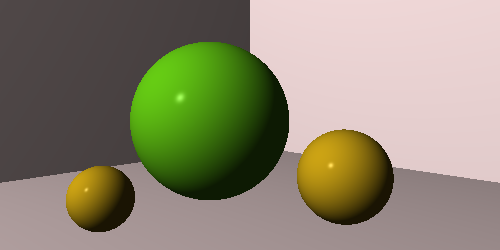
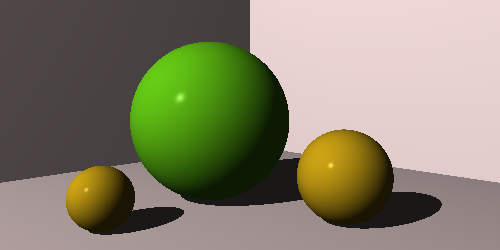
add code for shadows

Changed region(s): [[0.36, 0.616, 0.6, 0.84], [0.66, 0.756, 0.9, 0.924], [0.18, 0.812, 0.39, 0.952]]

diff --git a/tests/testReflection.cpp b/tests/testReflection.cpp
@@ -33,18 +33,30 @@ TEST_CASE("reflections should work")
         auto normal_v = vector(0.0, 0.0, -1.0);
         point_light light {point(0.0, 0.0, -10.0), color {1.0f, 1.0f, 1.0f}};
 
-        REQUIRE(lighting(m, light, pos, eye_v, normal_v) == color {1.9, 1.9, 1.9});
+        REQUIRE(lighting(m, light, pos, eye_v, normal_v, false) == color {1.9, 1.9, 1.9});
         auto eye_v_1 = vector(0.0, std::sqrt(2) / 2, std::sqrt(2) / 2);
-        REQUIRE(lighting(m, light, pos, eye_v_1, normal_v) == color {1.0, 1.0, 1.0});
+        REQUIRE(lighting(m, light, pos, eye_v_1, normal_v, false) == color {1.0, 1.0, 1.0});
         
         point_light light_1 {point(0.0, 10.0, -10.0), color {1.0f, 1.0f, 1.0f}};
-        REQUIRE(lighting(m, light_1, pos, eye_v_1, normal_v) == color {0.7364, 0.7364, 0.7364});
+        REQUIRE(lighting(m, light_1, pos, eye_v_1, normal_v, false) == color {0.7364, 0.7364, 0.7364});
         
         auto eye_v_2 = vector(0.0, -std::sqrt(2) / 2, -std::sqrt(2) / 2);
-        REQUIRE(lighting(m, light_1, pos, eye_v_2, normal_v) == color {1.6364, 1.6364, 1.6364});
+        REQUIRE(lighting(m, light_1, pos, eye_v_2, normal_v, false) == color {1.6364, 1.6364, 1.6364});
         
         point_light light_2 {point(0.0, 0.0, 10.0), color {1.0f, 1.0f, 1.0f}};
-        REQUIRE(lighting(m, light_2, pos, eye_v, normal_v) == color {0.1, 0.1, 0.1});
+        REQUIRE(lighting(m, light_2, pos, eye_v, normal_v, false) == color {0.1, 0.1, 0.1});
+
+        // lighting in shadow should work
+        REQUIRE(lighting(m, light_1, pos, eye_v, normal_v, true) == color {0.1, 0.1, 0.1});
+    }
+
+    SECTION("is_shadowed should work")
+    {
+        world w;
+        REQUIRE_FALSE(is_shadowed(w, point(0.0, 10.0, 0.0)));
+        REQUIRE(is_shadowed(w, point(10.0, -10.0, 10.0)));
+        REQUIRE_FALSE(is_shadowed(w, point(-20.0, 20.0, -20.0)));
+        REQUIRE_FALSE(is_shadowed(w, point(-2.0, 2.0, -2.0)));
     }
 
     SECTION("shading should work")
@@ -54,7 +66,7 @@ TEST_CASE("reflections should work")
         auto obj = *w.objs().begin();
         intersection i {obj, 4.0};
         computations c {i, r};
-        // REQUIRE(shade_hit(w, c) == color {0.38066, 0.47583, 0.2855});
+        REQUIRE(shade_hit(w, c) == color {0.38066, 0.47583, 0.2855});
     }
     
     SECTION("more shading should work")
@@ -65,17 +77,17 @@ TEST_CASE("reflections should work")
         auto obj = *(std::next((w.objs().begin())));
         intersection i {obj, 0.5};
         computations c {i, r};
-        // REQUIRE(shade_hit(w, c) == color {0.90498, 0.90498, 0.90498});
+        REQUIRE(shade_hit(w, c) == color {0.90498, 0.90498, 0.90498});
     }
 
     SECTION("color_at should work")
     {
         world w;
         ray<double, double> r1 {point(0.0, 0.0, -5.0), vector(0.0, 1.0, 0.0)};
-        // REQUIRE(color_at(w, r1) == color {0.0f, 0.0f, 0.0f});
+        REQUIRE(color_at(w, r1) == color {0.0f, 0.0f, 0.0f});
         
         ray<double, double> r2 {point(0.0, 0.0, -5.0), vector(0.0, 0.0, 1.0)};
-        // REQUIRE(color_at(w, r2) == color {0.38066f, 0.47583f, 0.2855f});
+        REQUIRE(color_at(w, r2) == color {0.38066f, 0.47583f, 0.2855f});
 
         auto inner = *(std::next((w.objs().begin())));
         auto m_inner = inner->mat();

diff --git a/include/graphics/reflection.h b/include/graphics/reflection.h
@@ -15,42 +15,68 @@ template<typename T>
 auto reflect(tuple<T> in, tuple<T> normal)
 { return (in - normal * 2 * dot(in, normal)); }
 
+template<typename T>
+auto is_shadowed(world w, tuple<T> pt) -> bool
+{
+    auto v = w.light().position() - pt;
+    auto distance = magnitude(v);
+    auto direction = normalize(v);
+
+    auto is_shadowed_res = false;
+
+    ray<T, double> r {pt, direction};
+    auto ints = intersect_world(w, r);
+    if (ints.has_value())
+    {
+        auto h = hit(ints.value());
+        if (h.has_value() && h.value().t() < distance)
+            is_shadowed_res = true;
+    }
+    return is_shadowed_res;
+}
+
 inline
 auto lighting(material m,
               point_light l,
               tuple<double> position,
               tuple<double> eye_v,
-              tuple<double> normal_v)
+              tuple<double> normal_v,
+              bool in_shadow)
 {
     color<float> effective_color = m.color() * l.intensity();
     auto light_v = normalize(l.position() - position);
     color<float> ambient = effective_color * m.ambient();
-    float light_dot_normal = dot(light_v, normal_v);
-
-    color<float> diffuse, specular;
-
-    color<float> black {0.0, 0.0, 0.0};
-
-    if (light_dot_normal < 0.0)
-    {
-        diffuse = black;
-        specular = black;
-    }
+    if (in_shadow)
+    { return ambient; }
     else
     {
-        diffuse = effective_color * m.diffuse() * light_dot_normal;
-        auto reflect_v = reflect(-light_v, normal_v);
-        auto reflect_dot_eye = dot(reflect_v, eye_v);
-        if (reflect_dot_eye <= 0.0)
+        float light_dot_normal = dot(light_v, normal_v);
+
+        color<float> diffuse, specular;
+
+        color<float> black {0.0, 0.0, 0.0};
+
+        if (light_dot_normal < 0.0)
+        {
+            diffuse = black;
             specular = black;
+        }
         else
         {
-            float factor = std::pow(reflect_dot_eye, m.shininess());
-            specular = l.intensity() * m.specular() * factor;
+            diffuse = effective_color * m.diffuse() * light_dot_normal;
+            auto reflect_v = reflect(-light_v, normal_v);
+            auto reflect_dot_eye = dot(reflect_v, eye_v);
+            if (reflect_dot_eye <= 0.0)
+                specular = black;
+            else
+            {
+                float factor = std::pow(reflect_dot_eye, m.shininess());
+                specular = l.intensity() * m.specular() * factor;
+            }
         }
-    }
 
-    return ambient + diffuse + specular;
+        return ambient + diffuse + specular;
+    }
 }
 
 inline
@@ -58,7 +84,8 @@ auto shade_hit(world w, computations c)
 {
     return lighting(c.obj()->mat(),
                     w.light(),
-                    c.point(), c.eye_v(), c.normal_v());
+                    c.over_point(), c.eye_v(), c.normal_v(),
+                    is_shadowed(w, c.over_point()));
 }
 
 template<typename Point, typename Vector>

diff --git a/include/utils/equality.h b/include/utils/equality.h
@@ -3,15 +3,17 @@
 
 #include <cmath>
 
+#include "math/constants.h"
+
 namespace RT
 {
 
-inline bool AlmostEquals(float const a, float const b, float TOLERANCE = 1e-8)
+inline bool AlmostEquals(float const a, float const b, float TOLERANCE = TOLERANCE_F)
 {
     return fabs(a-b) < TOLERANCE;
 }
 
-inline bool AlmostEquals(double const a, double const b, double TOLERANCE = 1e-15)
+inline bool AlmostEquals(double const a, double const b, double TOLERANCE = TOLERANCE_D)
 {
     return fabs(a-b) < TOLERANCE;
 }
@@ -21,32 +23,32 @@ inline bool AlmostEquals(int const a, int const b, int TOLERANCE = 0)
     return abs(a-b) == TOLERANCE;
 }
 
-inline bool AlmostEquals(double const a, int const b, double TOLERANCE = 1e-15)
+inline bool AlmostEquals(double const a, int const b, double TOLERANCE = TOLERANCE_D)
 {
     return fabs(a-b) < TOLERANCE;
 }
 
-inline bool AlmostEquals(int const a, double const b, double TOLERANCE = 1e-15)
+inline bool AlmostEquals(int const a, double const b, double TOLERANCE = TOLERANCE_D)
 {
     return fabs(a-b) < TOLERANCE;
 }
 
-inline bool AlmostEquals(int const a, float const b, float TOLERANCE = 1e-8)
+inline bool AlmostEquals(int const a, float const b, float TOLERANCE = TOLERANCE_F)
 {
     return fabs(a-b) < TOLERANCE;
 }
 
-inline bool AlmostEquals(float const a, int const b, float TOLERANCE = 1e-8)
+inline bool AlmostEquals(float const a, int const b, float TOLERANCE = TOLERANCE_F)
 {
     return fabs(a-b) < TOLERANCE;
 }
 
-inline bool AlmostEquals(double const a, float const b, double TOLERANCE = 1e-15)
+inline bool AlmostEquals(double const a, float const b, double TOLERANCE = TOLERANCE_D)
 {
     return fabs(a-b) < TOLERANCE;
 }
 
-inline bool AlmostEquals(float const a, double const b, double TOLERANCE = 1e-15)
+inline bool AlmostEquals(float const a, double const b, double TOLERANCE = TOLERANCE_D)
 {
     return fabs(a-b) < TOLERANCE;
 }

diff --git a/include/graphics/computations.h b/include/graphics/computations.h
@@ -7,6 +7,7 @@
 #include "graphics/ray.h"
 #include "shapes/object.h"
 #include "math/tuple.h"
+#include "math/constants.h"
 
 namespace RT
 {
@@ -28,11 +29,13 @@ public:
         }
         else
             m_inside = false;
+        m_over_point = m_point + m_normal_v * TOLERANCE_F;
     }
 
     auto t() const { return m_t; }
     auto obj() const { return m_obj; }
     auto point() const { return m_point; }
+    auto over_point() const { return m_over_point; }
     auto eye_v() const { return m_eye_v; }
     auto normal_v() const { return m_normal_v; }
     auto inside() const { return m_inside; }
@@ -40,7 +43,7 @@ public:
 private:
     double m_t;
     std::shared_ptr<object> m_obj;
-    tuple<double> m_point, m_eye_v, m_normal_v;
+    tuple<double> m_point, m_over_point, m_eye_v, m_normal_v;
     bool m_inside;
 };
 

diff --git a/tests/testComputations.cpp b/tests/testComputations.cpp
@@ -40,4 +40,14 @@ TEST_CASE("world should work")
         REQUIRE(c.inside());
     }
 
+    SECTION("over_point should work")
+    {
+        ray<double, double> r {point(0.0, 0.0, -5.0), vector(0.0, 0.0, 1.0)};
+        std::shared_ptr<object> s = std::make_shared<sphere>();
+        s->set_transform(translation(0.0, 0.0, 1.0));
+        intersection i {s, 5.0};
+        computations c {i, r};
+        REQUIRE(c.over_point().z < -TOLERANCE_F / 2.0);
+        REQUIRE(c.point().z > c.over_point().z);
+    }
 }

diff --git a/src/raySphere.cpp b/src/raySphere.cpp
@@ -56,7 +56,7 @@ int main()
                     auto p = position(r, h.value().t());
                     auto normal = s->normal_at(p);
                     auto eye_v = -r.direction();
-                    auto col = lighting(s->mat(), light, p, eye_v, normal);
+                    auto col = lighting(s->mat(), light, p, eye_v, normal, false);
                     write_pixel(c, x, y, col);
                 }
             }

diff --git a/include/math/constants.h b/include/math/constants.h
@@ -8,7 +8,8 @@
 namespace RT
 {
 
-const double TOLERANCE = 1e-15;
+const double TOLERANCE_D = 1e-15;
+const float TOLERANCE_F = 1e-8;
 
 } // end namespace RT
 
